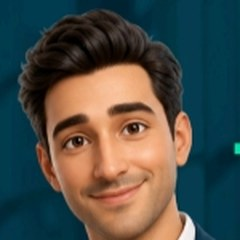
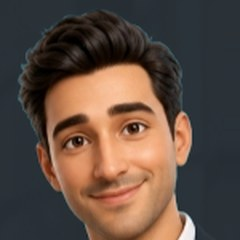
כרטיס: צבעים סולידיים עם נגיעות טורקיז, תמונה בפרופורציה נכונה, העוזר מציץ מהצד ואז מצביע על האתר (#2)
- רקע לבן ואפור, כפתורים בפחם כהה; טורקיז רק בכפתור 'כניסה לאתר', נקודות, כותרות קטנות וטבעת העוזר
- התמונה של מאיר נחתכה מחדש לריבוע בלי כיווץ, ומוצגת גדולה יותר (120 פיקסלים)
- רקע הדמות הוסב לאפור-פחם, והוסרו שאריות העיטור מהתמונה המקורית
- בפתיח: העוזר מציץ מהשוליים, ואז נכנס ומצביע על חלון האתר

Claude-Session: https://claude.ai/code/session_0114wf9pNSU3RwKtYU9xCBkK

diff --git a/index.html b/index.html
@@ -28,9 +28,10 @@
 <style>
 /* פריסה: עמודת טלפון אחת (עד 440px) במרכז, מתג סקיצות דביק למעלה, עוזר צף בפינה */
 :root{
-  --petrol:#023a4a; --petrol-2:#044154; --petrol-3:#06566e; --ink:#01222c;
-  --mint:#00e1a9; --mint-soft:#e8fbf5; --mint-line:#cdeee4;
-  --paper:#ffffff; --mist:#f3f8f7; --muted:#5a7680; --text:#0c2a33;
+  --petrol:#1f2a30; --petrol-2:#2a353b; --petrol-3:#3a464c; --ink:#141c20;
+  --mint:#12b5a2; --mint-soft:#f1f3f4; --mint-line:#e1e6e8;
+  --paper:#ffffff; --mist:#f7f8f8; --muted:#6b777d; --text:#24303a;
+  --panel:#293137; --bg:#f4f5f6;
   --wa:#1fbf5b;
   --f-display:"Frank Ruhl Libre","David Libre",Georgia,serif;
   --f-body:"Assistant","Heebo",system-ui,-apple-system,"Segoe UI",Arial,sans-serif;
@@ -40,7 +41,7 @@
 }
 *{box-sizing:border-box}
 html{direction:rtl}
-html,body{background:#011a22}
+html,body{background:#e9ecee}
 body{font-family:var(--f-body);color:var(--text);margin:0;-webkit-tap-highlight-color:transparent}
 a{color:inherit;text-decoration:none}
 button{font:inherit;color:inherit;background:none;border:0;cursor:pointer}
@@ -76,7 +77,7 @@ button{font:inherit;color:inherit;background:none;border:0;cursor:pointer}
 .services{display:grid;grid-template-columns:1fr 1fr;gap:10px}
 .svc{position:relative;text-align:right;border-radius:var(--r-m);padding:14px 13px 13px;background:linear-gradient(180deg,#fff,var(--mist));border:1px solid var(--mint-line);display:flex;flex-direction:column;gap:6px;min-height:128px;transition:transform .2s ease,box-shadow .2s ease,border-color .2s}
 .svc:hover{box-shadow:var(--shadow);border-color:#9fe3cf}
-.svc .ic{width:40px;height:40px;border-radius:12px;background:var(--petrol);color:var(--mint);display:grid;place-items:center}
+.svc .ic{width:40px;height:40px;border-radius:12px;background:var(--mint-soft);color:var(--petrol);display:grid;place-items:center}
 .svc .ic svg{width:22px;height:22px}
 .svc b{font-size:15.5px;line-height:1.2;color:var(--ink)}
 .svc span{font-size:12.5px;color:var(--muted);line-height:1.4}
@@ -102,17 +103,17 @@ button{font:inherit;color:inherit;background:none;border:0;cursor:pointer}
 .video .play svg{width:24px;height:24px;margin-right:-3px}
 .video-el{display:block;width:40%;margin:0 auto;border-radius:16px;background:#000}
 .video p{position:absolute;bottom:10px;inset-inline:0;margin:0;font-size:12px;opacity:.85;z-index:1}
-.foot{margin-top:26px;background:var(--ink);color:#cfe3e7;padding:22px 20px 26px;display:flex;flex-direction:column;gap:12px}
+.foot{margin-top:26px;background:var(--petrol);color:#c9d0d4;padding:22px 20px 26px;display:flex;flex-direction:column;gap:12px}
 .foot .logo{height:34px;width:auto;align-self:flex-start}
 .foot p{margin:0;font-size:13px;line-height:1.6}
 .foot b{color:#fff}
 
 /* עוזר – מקטע גדול */
-.meet{margin:26px 16px 0;border-radius:var(--r-l);background:radial-gradient(120% 90% at 85% 0%,#0b6179 0%,var(--petrol) 55%,var(--ink) 100%);color:#fff;overflow:hidden;position:relative;display:grid;grid-template-columns:1fr 46%;align-items:end;min-height:250px}
+.meet{margin:26px 16px 0;border-radius:var(--r-l);background:var(--panel);color:#fff;overflow:hidden;position:relative;display:grid;grid-template-columns:1fr 46%;align-items:end;min-height:250px}
 .meet .txt{padding-block:22px;padding-inline:4px 18px;position:relative;z-index:2;align-self:center}
 .meet h2{font-family:var(--f-display);font-size:26px;line-height:1.15;margin:4px 0 8px;color:#fff;text-wrap:balance}
-.meet p{margin:0 0 14px;font-size:14.5px;line-height:1.5;color:#cfe6ea}
-.meet .go{display:inline-flex;align-items:center;gap:8px;background:var(--mint);color:var(--ink);font-weight:800;border-radius:14px;padding:11px 18px;font-size:15.5px}
+.meet p{margin:0 0 14px;font-size:14.5px;line-height:1.5;color:#c9d0d4}
+.meet .go{display:inline-flex;align-items:center;gap:8px;background:#fff;color:var(--ink);font-weight:800;border-radius:14px;padding:11px 18px;font-size:15.5px}
 .meet .fig{align-self:stretch;position:relative;min-height:250px;overflow:hidden}
 .meet .fig img{position:absolute;bottom:0;right:-70px;height:100%;max-width:none;width:auto;-webkit-mask-image:linear-gradient(to right,transparent 0,#000 30%);mask-image:linear-gradient(to right,transparent 0,#000 30%)}
 .meet .eyebrow{color:var(--mint)}
@@ -149,17 +150,17 @@ button{font:inherit;color:inherit;background:none;border:0;cursor:pointer}
 .opts{display:grid;gap:8px}
 .opt{display:flex;align-items:center;gap:12px;width:100%;text-align:right;padding:13px 14px;border-radius:14px;border:1px solid var(--mint-line);background:linear-gradient(180deg,#fff,var(--mist));font-weight:700;font-size:15.5px;color:var(--ink);min-height:54px}
 .opt:hover{border-color:#8fdcc6}
-.opt i{width:34px;height:34px;border-radius:10px;background:var(--petrol);color:var(--mint);display:grid;place-items:center;flex:none}
+.opt i{width:34px;height:34px;border-radius:10px;background:var(--mint-soft);color:var(--petrol);display:grid;place-items:center;flex:none}
 .opt i svg{width:19px;height:19px}
 .opt em{margin-inline-start:auto;font-style:normal;color:#8aa3aa}
-.say{background:var(--mint-soft);border:1px solid var(--mint-line);border-radius:4px 18px 18px 18px;padding:12px 14px;font-size:15px;line-height:1.5;margin:0 0 12px;color:var(--ink)}
+.say{background:var(--mint-soft);border:0;border-inline-start:3px solid var(--mint);border-radius:4px 14px 14px 4px;padding:12px 14px;font-size:15px;line-height:1.5;margin:0 0 12px;color:var(--ink)}
 .back{font-size:14px;font-weight:700;color:var(--muted);padding:6px 2px;margin-bottom:6px}
 .note{font-size:12.5px;color:var(--muted);line-height:1.5;margin:10px 2px 0}
 .copy-row{display:flex;gap:8px;align-items:center;border:1px dashed var(--mint-line);border-radius:12px;padding:8px 10px;font-size:13px;direction:ltr;justify-content:space-between}
 .copy-row button{direction:rtl;font-weight:800;color:var(--petrol);font-size:13px}
 
 /* ===== פתיח ===== */
-.intro{position:fixed;inset:0;z-index:80;display:grid;place-items:center;background:radial-gradient(90% 60% at 50% 40%,#06566e,var(--petrol) 55%,var(--ink));transition:opacity .5s ease, visibility .5s}
+.intro{position:fixed;inset:0;z-index:80;display:grid;place-items:center;background:var(--petrol);transition:opacity .5s ease, visibility .5s}
 .intro.gone{opacity:0;visibility:hidden}
 .intro .mark{width:min(64vw,260px);position:relative}
 .intro .mark img{width:100%;height:auto;display:block;clip-path:inset(0 0 0 100%);animation:wipe 1s .15s cubic-bezier(.7,0,.2,1) forwards}
@@ -177,87 +178,67 @@ button{font:inherit;color:inherit;background:none;border:0;cursor:pointer}
 .anim .in.on{opacity:1;transform:none}
 .bubble{transition:opacity .4s ease,transform .5s cubic-bezier(.2,.9,.3,1.25)}
 
-/* =================== סקיצה C =================== */
-.C{background:var(--ink);color:#e6f3f5}
-.C .sky{position:relative;overflow:hidden;background:radial-gradient(80% 50% at 80% 0%,rgba(0,225,169,.18),transparent 60%),radial-gradient(70% 60% at 0% 30%,rgba(6,86,110,.7),transparent 70%),var(--ink)}
-.C .sky::before{content:"";position:absolute;inset:0;background-image:linear-gradient(rgba(0,225,169,.07) 1px,transparent 1px),linear-gradient(90deg,rgba(0,225,169,.07) 1px,transparent 1px);background-size:34px 34px;-webkit-mask-image:linear-gradient(#000,transparent 85%);mask-image:linear-gradient(#000,transparent 85%)}
-.C .head{position:relative;display:flex;justify-content:space-between;align-items:center;padding:18px 18px 0}
-.C .head .pill{color:var(--mint);border:1px solid rgba(0,225,169,.4);background:rgba(0,225,169,.06)}
-.C .glass{position:relative;margin:18px 16px 0;border-radius:26px;padding:16px;background:linear-gradient(160deg,rgba(255,255,255,.10),rgba(255,255,255,.03));border:1px solid rgba(255,255,255,.14);backdrop-filter:blur(8px);display:grid;grid-template-columns:112px 1fr;gap:14px;align-items:center}
-.C .glass .ph{position:relative;width:112px;aspect-ratio:1;border-radius:20px;overflow:hidden;box-shadow:0 0 0 2px rgba(0,225,169,.7),0 0 30px rgba(0,225,169,.25)}
-.C .glass .ph img{width:100%;height:100%;object-fit:cover;object-position:50% 12%}
-.C .glass .ph::after{content:"";position:absolute;inset-inline:0;height:30%;top:-30%;background:linear-gradient(transparent,rgba(0,225,169,.45),transparent)}
-.C.anim .glass .ph.on::after{animation:scan 1.4s .3s ease-in-out 1}
-@keyframes scan{to{top:100%}}
-.C .glass h1{font-family:var(--f-display);font-weight:900;font-size:30px;line-height:1.05;margin:0 0 4px;color:#fff}
-.C .glass p{margin:0;font-size:13.5px;line-height:1.45;color:#a9c9d0}
-.C .glass .ver{display:inline-flex;gap:5px;align-items:center;margin-top:8px;font-size:12px;font-weight:800;color:var(--mint)}
-.C .duo{position:relative;height:290px;margin:14px 16px 0;border-radius:26px;overflow:hidden;background:linear-gradient(180deg,#023c4c,#023a4a 60%,#01303d);border:1px solid rgba(0,225,169,.32);box-shadow:0 0 40px rgba(0,225,169,.12) inset}
-.C .duo .asst{position:absolute;bottom:-4px;right:-30px;width:92%;max-width:none;-webkit-mask-image:linear-gradient(to top,#000 85%,transparent 100%);mask-image:linear-gradient(to top,#000 85%,transparent 100%)}
-.C .duo .bubble{position:absolute;top:14px;left:14px;width:56%;background:rgba(255,255,255,.96);color:var(--ink);border-radius:20px 20px 6px 20px;padding:12px 14px;font-size:14px;line-height:1.45;font-weight:600;box-shadow:0 0 0 1px rgba(0,225,169,.5),0 14px 30px rgba(0,0,0,.4);z-index:3}
+/* =================== הכרטיס — צבעים סולידיים, נגיעות טורקיז =================== */
+.C{background:var(--bg);color:var(--text)}
+.C .sky{background:#fff;border-bottom:1px solid var(--mint-line);padding-bottom:4px}
+.C .head{display:flex;justify-content:space-between;align-items:center;padding:16px 18px 0}
+.C .head .pill{color:var(--muted);border:1px solid var(--mint-line);background:#fff}
+.C .head .pill::before{content:"";width:6px;height:6px;border-radius:50%;background:var(--mint)}
+.C .glass{margin:14px 16px 0;display:grid;grid-template-columns:120px 1fr;gap:14px;align-items:center}
+.C .glass .ph{position:relative;width:120px;aspect-ratio:1;border-radius:20px;overflow:hidden;box-shadow:0 8px 22px rgba(20,28,32,.16)}
+.C .glass .ph img{width:100%;height:100%;object-fit:cover;display:block}
+.C .glass h1{font-family:var(--f-display);font-weight:900;font-size:31px;line-height:1.05;margin:0 0 6px;color:var(--ink)}
+.C .glass p{margin:0;font-size:14px;line-height:1.45;color:var(--muted)}
+.C .glass .ver{display:inline-flex;gap:5px;align-items:center;margin-top:8px;font-size:12.5px;font-weight:700;color:var(--text)}
+.C .glass .ver::first-letter{color:var(--mint)}
+.C .duo{position:relative;height:196px;margin:14px 16px 0;border-radius:22px;overflow:hidden;background:var(--panel)}
+.C .duo .asst{position:absolute;bottom:-2px;right:-40px;width:66%;max-width:none;transition:transform 1s cubic-bezier(.2,.8,.2,1),opacity .5s ease}
+.C.anim .duo .asst.in{opacity:1;transform:translateX(70%)}
+.C.anim .duo .asst.in.peek{transform:translateX(20%) rotate(-4deg)}
+.C.anim .duo .asst.in.on{transform:none}
+.C .duo .bubble{position:absolute;top:10px;left:10px;width:62%;background:#fff;color:var(--ink);border-radius:18px 18px 6px 18px;padding:10px 12px;font-size:13px;line-height:1.45;font-weight:600;box-shadow:0 12px 26px rgba(0,0,0,.3);z-index:5}
 .C .duo .bubble.hide{opacity:0;transform:scale(.94);pointer-events:none}
-.C .ring-glow{position:absolute;bottom:-60px;right:8%;width:300px;height:120px;border-radius:50%;background:radial-gradient(closest-side,rgba(0,225,169,.35),transparent);filter:blur(4px)}
-.C .cta-wrap{padding:16px 16px 0;position:relative}
-.C .sec h2{color:#fff}
-.C .sec .lead{color:#9dbcc4}
+.C .site{position:absolute;left:12px;bottom:14px;width:44%;border-radius:14px;background:#fff;color:var(--ink);overflow:hidden;z-index:4;box-shadow:0 12px 28px rgba(0,0,0,.35);transition:transform .2s}
+.C .site:active{transform:scale(.97)}
+.C .site .bar{display:flex;align-items:center;gap:4px;height:20px;padding:0 8px;background:#eef0f1}
+.C .site .bar i{width:6px;height:6px;border-radius:50%;background:#c4cacd}
+.C .site .bar em{font-style:normal;font-size:10.5px;color:var(--muted);margin-inline-start:auto;direction:ltr}
+.C .site .pg{display:flex;flex-direction:column;gap:2px;padding:8px 10px 10px}
+.C .site b{font-family:var(--f-display);font-size:17px;color:var(--ink)}
+.C .site small{font-size:11.5px;color:var(--muted);line-height:1.3}
+.C .site .enter{margin-top:6px;background:var(--mint);color:#fff;font-weight:800;font-size:13.5px;border-radius:9px;padding:6px 8px;text-align:center}
+.C .site.pulse{animation:sitePulse 1.4s ease 2}
+@keyframes sitePulse{50%{box-shadow:0 0 0 6px rgba(18,181,162,.35),0 12px 28px rgba(0,0,0,.35)}}
+.C .tiles{display:grid;grid-template-columns:repeat(5,1fr);gap:12px 6px;padding:16px 12px 16px}
+.C .tile{display:flex;flex-direction:column;align-items:center;gap:6px;font-size:11.5px;font-weight:700;color:var(--text);text-align:center;line-height:1.15}
+.C .tile i{width:52px;height:52px;border-radius:16px;display:grid;place-items:center;background:var(--mint-soft);border:1px solid var(--mint-line);color:var(--petrol);font-style:normal}
+.C .tile i svg{width:23px;height:23px}
+.C .tile.wa i{background:var(--wa);color:#fff;border-color:transparent}
+.C .tile.call i{background:var(--petrol);color:#fff;border-color:transparent}
+@media (max-width:360px){.C .tile i{width:46px;height:46px}.C .tile{font-size:10.5px}.C .glass{grid-template-columns:100px 1fr}.C .glass .ph{width:100px}}
+.C .sec h2{color:var(--ink)}
 .C .eyebrow{color:var(--mint)}
+.C .presenter{display:flex;gap:10px;align-items:flex-start;margin:6px 0 12px}
+.C .presenter img{width:44px;height:44px;border-radius:50%;object-fit:cover;flex:none}
+.C .presenter p{margin:0;background:#fff;border:1px solid var(--mint-line);border-radius:4px 16px 16px 16px;padding:9px 12px;font-size:14px;line-height:1.45;color:var(--text);min-height:44px;transition:opacity .25s}
 .C .deck{display:flex;gap:12px;overflow-x:auto;scroll-snap-type:x mandatory;padding:4px 20px 14px;margin:0 -20px;scrollbar-width:none}
 .C .deck::-webkit-scrollbar{display:none}
-.C .card3{scroll-snap-align:center;flex:0 0 78%;border-radius:22px;padding:18px;background:linear-gradient(165deg,rgba(255,255,255,.10),rgba(255,255,255,.02));border:1px solid rgba(255,255,255,.13);position:relative;overflow:hidden;text-align:right;color:#e6f3f5;display:flex;flex-direction:column;gap:8px;min-height:200px;transition:border-color .3s,transform .3s}
-.C .card3::before{content:"";position:absolute;top:-40%;left:-30%;width:70%;height:90%;background:radial-gradient(closest-side,rgba(0,225,169,.22),transparent);pointer-events:none}
-.C .card3.active{border-color:rgba(0,225,169,.75)}
-.C .card3 .ic{width:46px;height:46px;border-radius:14px;background:rgba(0,225,169,.14);color:var(--mint);display:grid;place-items:center;border:1px solid rgba(0,225,169,.35)}
+.C .card3{scroll-snap-align:center;flex:0 0 78%;border-radius:20px;padding:18px;background:#fff;border:1px solid var(--mint-line);position:relative;text-align:right;display:flex;flex-direction:column;gap:8px;min-height:196px;transition:border-color .3s,box-shadow .3s}
+.C .card3.active{border-color:var(--mint);box-shadow:0 10px 26px rgba(20,28,32,.08)}
+.C .card3 .ic{width:46px;height:46px;border-radius:14px;background:var(--mint-soft);color:var(--petrol);display:grid;place-items:center}
 .C .card3 .ic svg{width:24px;height:24px}
-.C .card3 b{font-size:19px;color:#fff;font-family:var(--f-display)}
-.C .card3 span{font-size:14px;line-height:1.5;color:#a9c9d0}
-.C .card3 .go{margin-top:auto;display:inline-flex;align-self:flex-start;gap:6px;align-items:center;font-weight:800;font-size:14px;color:var(--ink);background:var(--mint);border-radius:12px;padding:9px 14px}
-.C .card3 .soon{position:absolute;top:14px;left:14px;font-size:11px;font-weight:800;border-radius:20px;padding:2px 8px;color:var(--mint);border:1px solid rgba(0,225,169,.45)}
+.C .card3 b{font-size:19px;color:var(--ink);font-family:var(--f-display)}
+.C .card3 span{font-size:14px;line-height:1.5;color:var(--muted)}
+.C .card3 .go{margin-top:auto;display:inline-flex;align-self:flex-start;gap:6px;align-items:center;font-weight:800;font-size:14px;color:#fff;background:var(--petrol);border-radius:12px;padding:9px 14px}
+.C .card3 .soon{position:absolute;top:14px;left:14px;font-size:11px;font-weight:800;border-radius:20px;padding:2px 8px;color:var(--muted);border:1px solid var(--mint-line)}
 .C .dots{display:flex;justify-content:center;gap:6px}
-.C .dots i{width:7px;height:7px;border-radius:5px;background:rgba(255,255,255,.25);transition:.3s}
+.C .dots i{width:7px;height:7px;border-radius:5px;background:#cdd3d6;transition:.3s}
 .C .dots i.on{width:20px;background:var(--mint)}
-.C .presenter{display:flex;gap:10px;align-items:flex-start;margin:6px 0 12px}
-.C .presenter img{width:44px;height:44px;border-radius:50%;object-fit:cover;box-shadow:0 0 0 2px var(--mint);flex:none}
-.C .presenter p{margin:0;background:rgba(255,255,255,.07);border:1px solid rgba(255,255,255,.12);border-radius:4px 16px 16px 16px;padding:9px 12px;font-size:14px;line-height:1.45;color:#e6f3f5;min-height:44px;transition:opacity .25s}
-.C .ct{color:#d6eaee}
-.C .ct i{background:rgba(255,255,255,.07);border-color:rgba(255,255,255,.14);color:var(--mint)}
-.C .ct.wa i{background:var(--wa);color:#fff}
-.C .chip{background:rgba(0,225,169,.08);border-color:rgba(0,225,169,.3);color:#d6f5ec}
-.C .lk{background:rgba(255,255,255,.05);border-color:rgba(255,255,255,.12)}
-.C .lk b{color:#fff}.C .lk small{color:#93b3bb}
-.C .lk i{background:rgba(0,225,169,.14);color:var(--mint)}
-.C .meet{margin-top:20px;background:radial-gradient(120% 90% at 85% 0%,rgba(0,225,169,.2),transparent 50%),linear-gradient(160deg,#06566e,#012a36);border:1px solid rgba(0,225,169,.3)}
-.C .foot{background:#00161d}
-
-
-/* C — מסך ראשון עם האתר וכל הקישורים */
-.C .glass{margin-top:14px;padding:12px;grid-template-columns:84px 1fr;gap:12px}
-.C .glass .ph{width:84px;border-radius:18px}
-.C .glass h1{font-size:26px}
-.C .glass p{font-size:13px}
-.C .glass .ver{margin-top:5px;font-size:11.5px}
-.C .duo{height:196px;margin-top:10px}
-.C .duo .asst{width:68%;right:-40px;bottom:-2px}
-.C .duo .bubble{top:10px;left:10px;width:62%;font-size:13px;padding:10px 12px;z-index:5}
-.C .site{position:absolute;left:12px;bottom:14px;width:47%;border-radius:14px;background:#fff;color:var(--ink);overflow:hidden;z-index:4;
-  box-shadow:0 0 0 2px var(--mint),0 12px 28px rgba(0,0,0,.45);transform:rotate(-2deg);transition:transform .2s}
-.C .site:active{transform:rotate(-2deg) scale(.97)}
-.C .site .bar{display:flex;align-items:center;gap:4px;height:20px;padding:0 8px;background:#e9f1f2}
-.C .site .bar i{width:6px;height:6px;border-radius:50%;background:#b9cbcf}
-.C .site .bar em{font-style:normal;font-size:10.5px;color:#5a7680;margin-inline-start:auto;direction:ltr}
-.C .site .pg{display:flex;flex-direction:column;gap:2px;padding:8px 10px 10px}
-.C .site b{font-family:var(--f-display);font-size:17px;color:var(--petrol)}
-.C .site small{font-size:11.5px;color:var(--muted);line-height:1.3}
-.C .site .enter{margin-top:6px;background:var(--mint);color:var(--ink);font-weight:800;font-size:13.5px;border-radius:9px;padding:6px 8px;text-align:center}
-.C .site.pulse{animation:sitePulse 1.6s ease 2}
-@keyframes sitePulse{50%{box-shadow:0 0 0 2px var(--mint),0 0 0 10px rgba(0,225,169,.25),0 12px 28px rgba(0,0,0,.45)}}
-.C .tiles{position:relative;display:grid;grid-template-columns:repeat(5,1fr);gap:10px 6px;padding:14px 12px 18px}
-.C .tile{display:flex;flex-direction:column;align-items:center;gap:5px;font-size:11.5px;font-weight:700;color:#d6eaee;text-align:center;line-height:1.15}
-.C .tile i{width:52px;height:52px;border-radius:16px;display:grid;place-items:center;background:rgba(255,255,255,.07);border:1px solid rgba(255,255,255,.14);color:var(--mint);font-style:normal;font-weight:900}
-.C .tile i svg{width:23px;height:23px}
-.C .tile.wa i{background:var(--wa);color:#fff;border-color:transparent;box-shadow:0 6px 16px rgba(31,191,91,.35)}
-.C .tile.call i{background:var(--mint);color:var(--ink);border-color:transparent}
-@media (max-width:360px){.C .tile i{width:46px;height:46px}.C .tile{font-size:10.5px}}
-
+.C .chip{background:#fff;border-color:var(--mint-line);color:var(--text)}
+.C .meet{margin-top:22px}
+.C .meet .eyebrow{color:var(--mint)}
+.C .video{background:var(--panel)}
+.C .foot .logo{height:34px}
 @media (prefers-reduced-motion:reduce){
   *,*::before,*::after{animation:none!important;transition:none!important}
 }
@@ -270,9 +251,9 @@ button{font:inherit;color:inherit;background:none;border:0;cursor:pointer}
     <!-- ================= C ================= -->
     <section class="view C dark" id="view-c" data-v="c" aria-label="כרטיס הביקור של מאיר כהן">
       <div class="sky">
-        <div class="head"><img class="logo in" src="assets/logo-light.png" alt="יהב ביטוח ופיננסים"><span class="pill in">✦ כרטיס ביקור דיגיטלי</span></div>
+        <div class="head"><img class="logo in" src="assets/logo-dark.png" alt="יהב ביטוח ופיננסים"><span class="pill in">✦ כרטיס ביקור דיגיטלי</span></div>
         <div class="glass in zoom">
-          <div class="ph in"><img src="assets/meir.jpg" alt="מאיר כהן"></div>
+          <div class="ph"><img src="assets/meir.jpg" alt="מאיר כהן"></div>
           <div><h1>מאיר כהן</h1><p>מנכ״ל יהב ביטוח ופיננסים · סוכן ביטוח פנסיוני וכללי</p><span class="ver">✓ סוכן ביטוח מורשה · 15+ שנות ניסיון</span></div>
         </div>
         <div class="duo">
@@ -573,9 +554,13 @@ function play(v){
     at(9000,()=>{en.className="entry shrink gone"; fab.dataset.state="on"; fab.classList.add("breathe");});
   } else {
     at(1700,()=>on(".head .in")); at(1900,()=>on(".glass,.ph"));
-    at(2500,()=>on(".site")); at(2700,()=>on("#c-asst")); at(3300,()=>on(".bubble")); at(3600,()=>on(".tiles"));
-    at(7600,()=>{ q(".bubble").classList.add("hide"); const st=q(".site"); st.classList.remove("pulse"); void st.offsetWidth; st.classList.add("pulse"); });
-    at(9200,()=>{ fab.dataset.state="on"; fab.classList.add("breathe"); });
+    const as=q("#c-asst"); as.classList.remove("peek");
+    at(2300,()=>on(".site")); at(2500,()=>on(".tiles"));
+    at(2700,()=>as.classList.add("peek"));                               // העוזר מציץ מהצד
+    at(4000,()=>{ as.classList.add("on"); const st=q(".site"); st.classList.remove("pulse"); void st.offsetWidth; st.classList.add("pulse"); }); // ואז מצביע על האתר
+    at(4600,()=>on(".bubble"));
+    at(9000,()=>q(".bubble").classList.add("hide"));
+    at(9600,()=>{ fab.dataset.state="on"; fab.classList.add("breathe"); });
   }
 }
 document.getElementById("skip").addEventListener("click",()=>finalState(current()));
